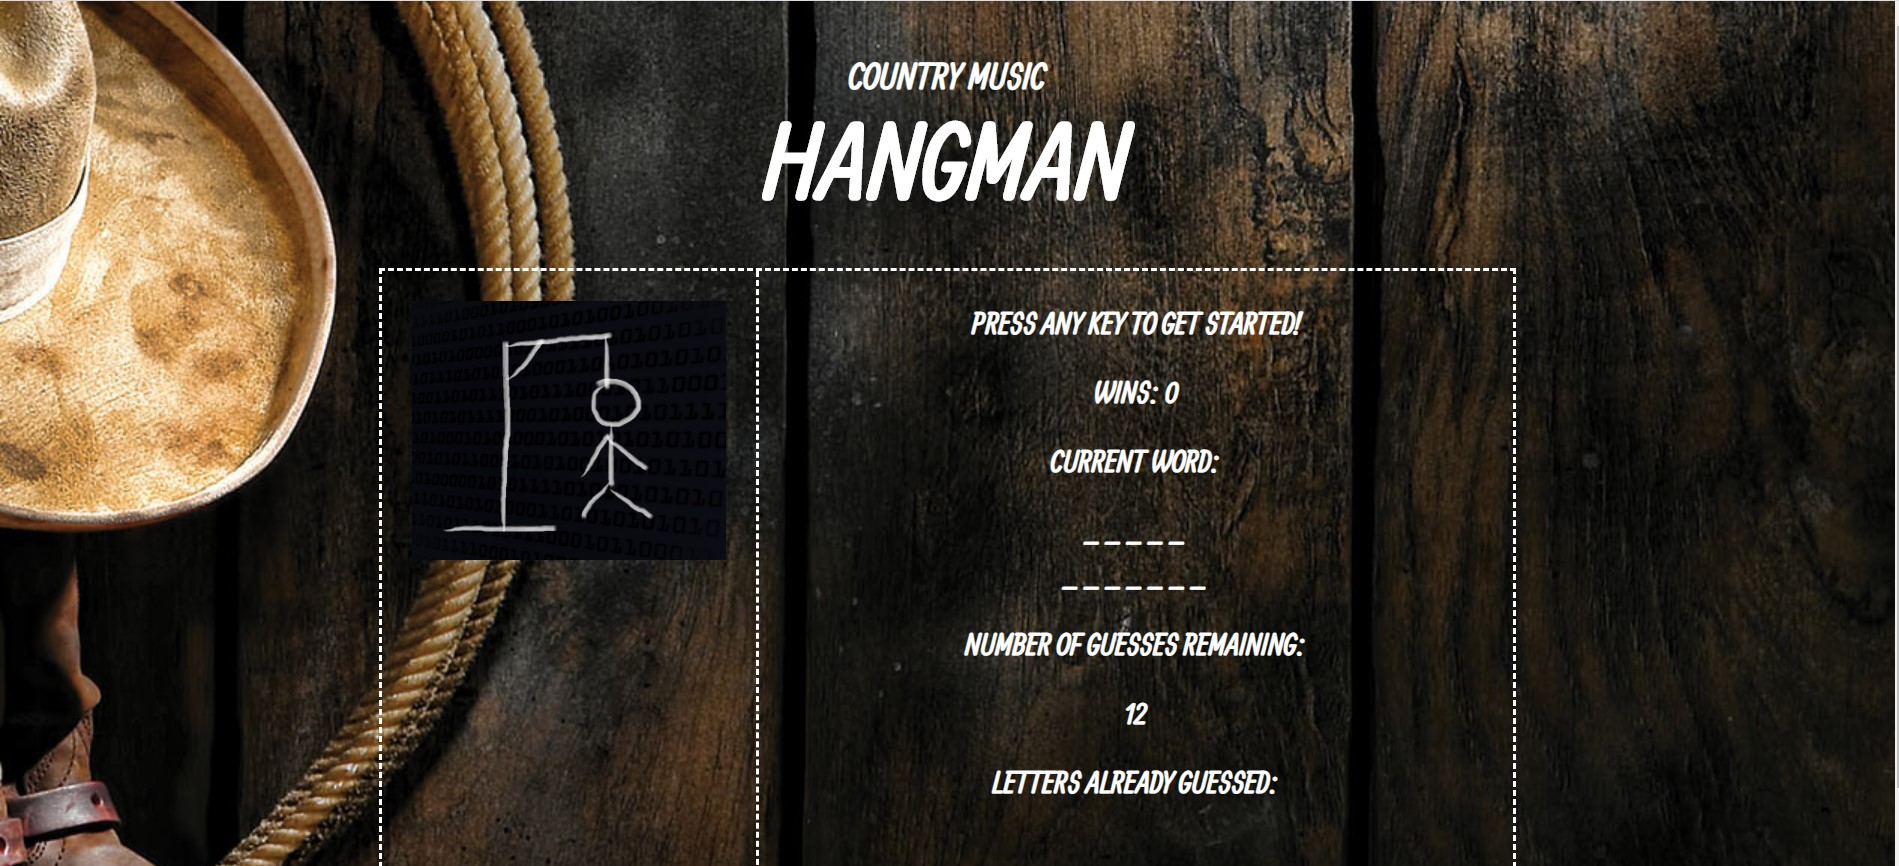
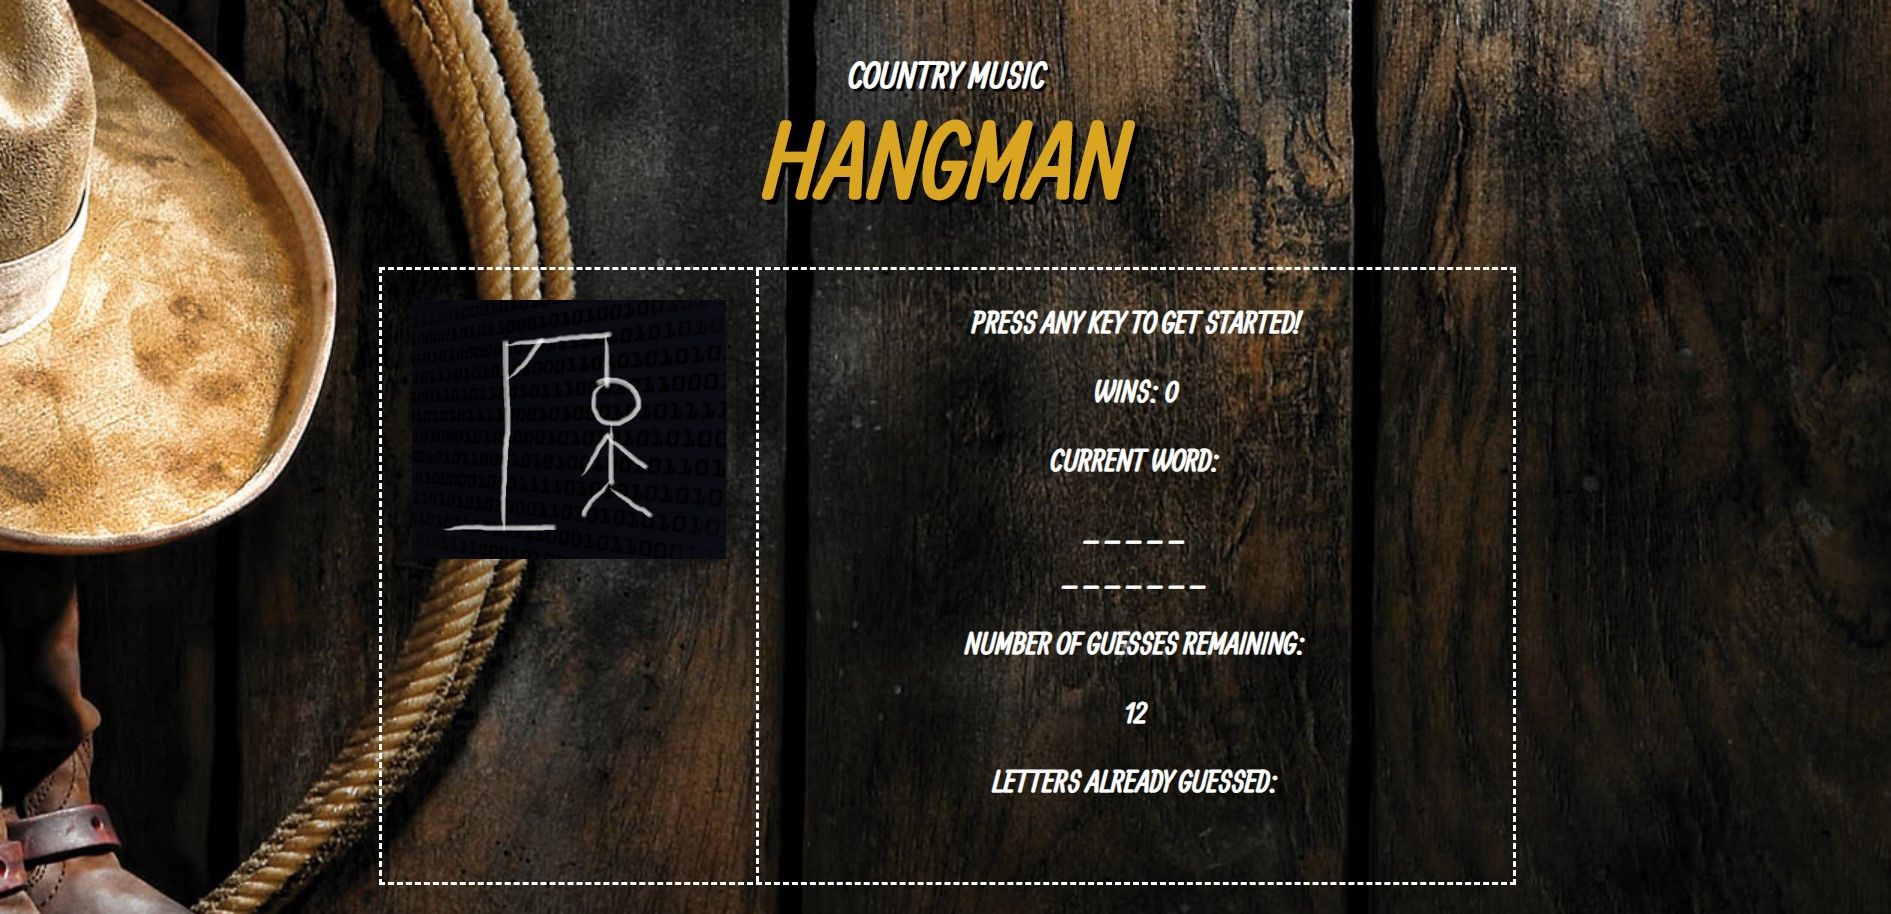
Fixing font colors for headers and updating README

diff --git a/Module-2_Assessment/index.html b/Module-2_Assessment/index.html
@@ -15,12 +15,8 @@
         <h1>HANGMAN</h1>
     </div>
     <h5 id="song-title" class="text-center"></h5>
-    <audio id="audio" autoplay>
-        <source src='assets/songs/THE HOUSE THAT BUILT ME BY MIRANDA LAMBERT.mp3' type='audio/mpeg'>
-        <source src='assets/songs/LOVE WITHOUT END, AMEN BY GEORGE STRAIT.mp3' type='audio/mpeg'>
-        
-    </audio>
-    <div class="container">
+    <audio id="audio" autoplay></audio>
+        <div class="container">
         <div class="row">
             <div id="left-col" class="col-sm-4">
                

diff --git a/Module-2_Assessment/assets/css/style.css b/Module-2_Assessment/assets/css/style.css
@@ -12,6 +12,7 @@ h4{
     padding-top: 35px;
     margin-bottom: 0;
     font-weight: bold;
+    text-shadow: 2px 2px black;
 }
 h1{
     text-align: center;
@@ -19,13 +20,16 @@ h1{
     font-family: 'Allan', cursive;
     font-size: 70px;
     font-weight: bold;
+    color: goldenrod;
+    text-shadow: 3px 3px black;
     
 }
 h5{
     font-family: 'Allan', cursive;
-    font-weight: bold;
     font-size: 25px;
-
+    color: white;
+    text-shadow: 2px 2px black;
+    
 }
 .container{
     border: 2px dashed white;

diff --git a/Module-2_Assessment/README.md b/Module-2_Assessment/README.md
@@ -11,7 +11,11 @@ Hangman - Country Music is an online game. The player guesses letters to try to 
 * Bootstrap 4
 
 ## Game Play
-![GIF of actual game play](assets/images/HangmanGame.gif)
+![GIF of actual game play](assets/images/Hangman.gif)
+
+## Future Add-Ons
+* More levels
+* A next button between levels
 
 ## Contributing
 Pull requests are welcome. For major changes, please open an issue first to discuss what you would like to change.
